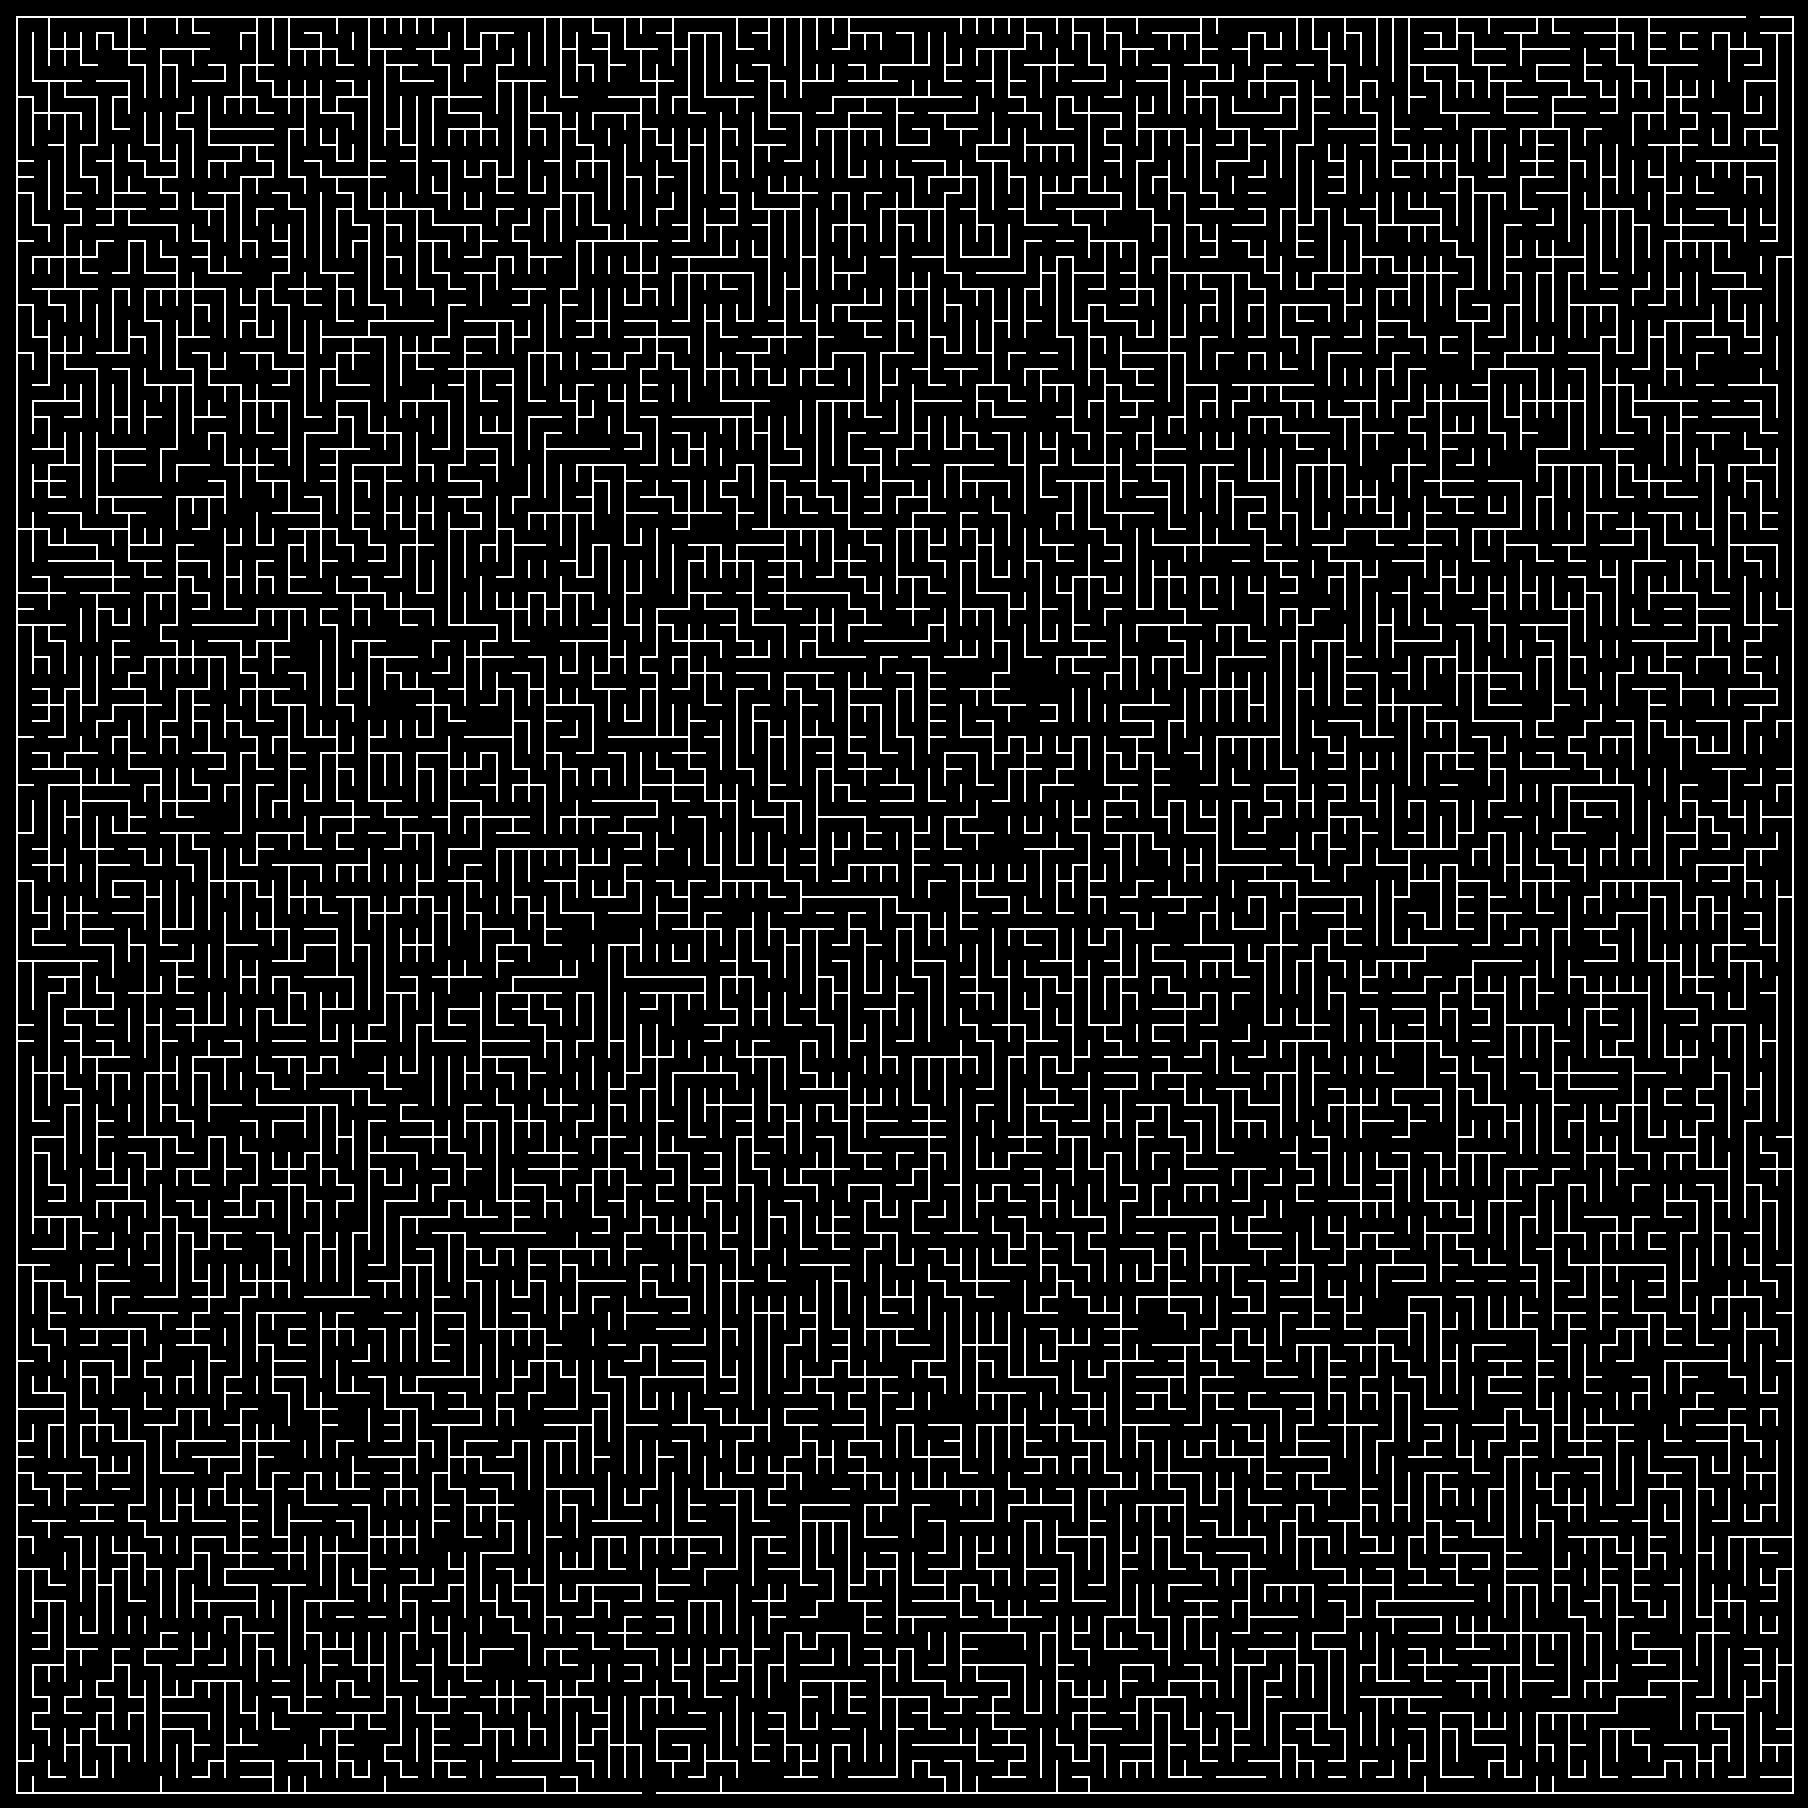
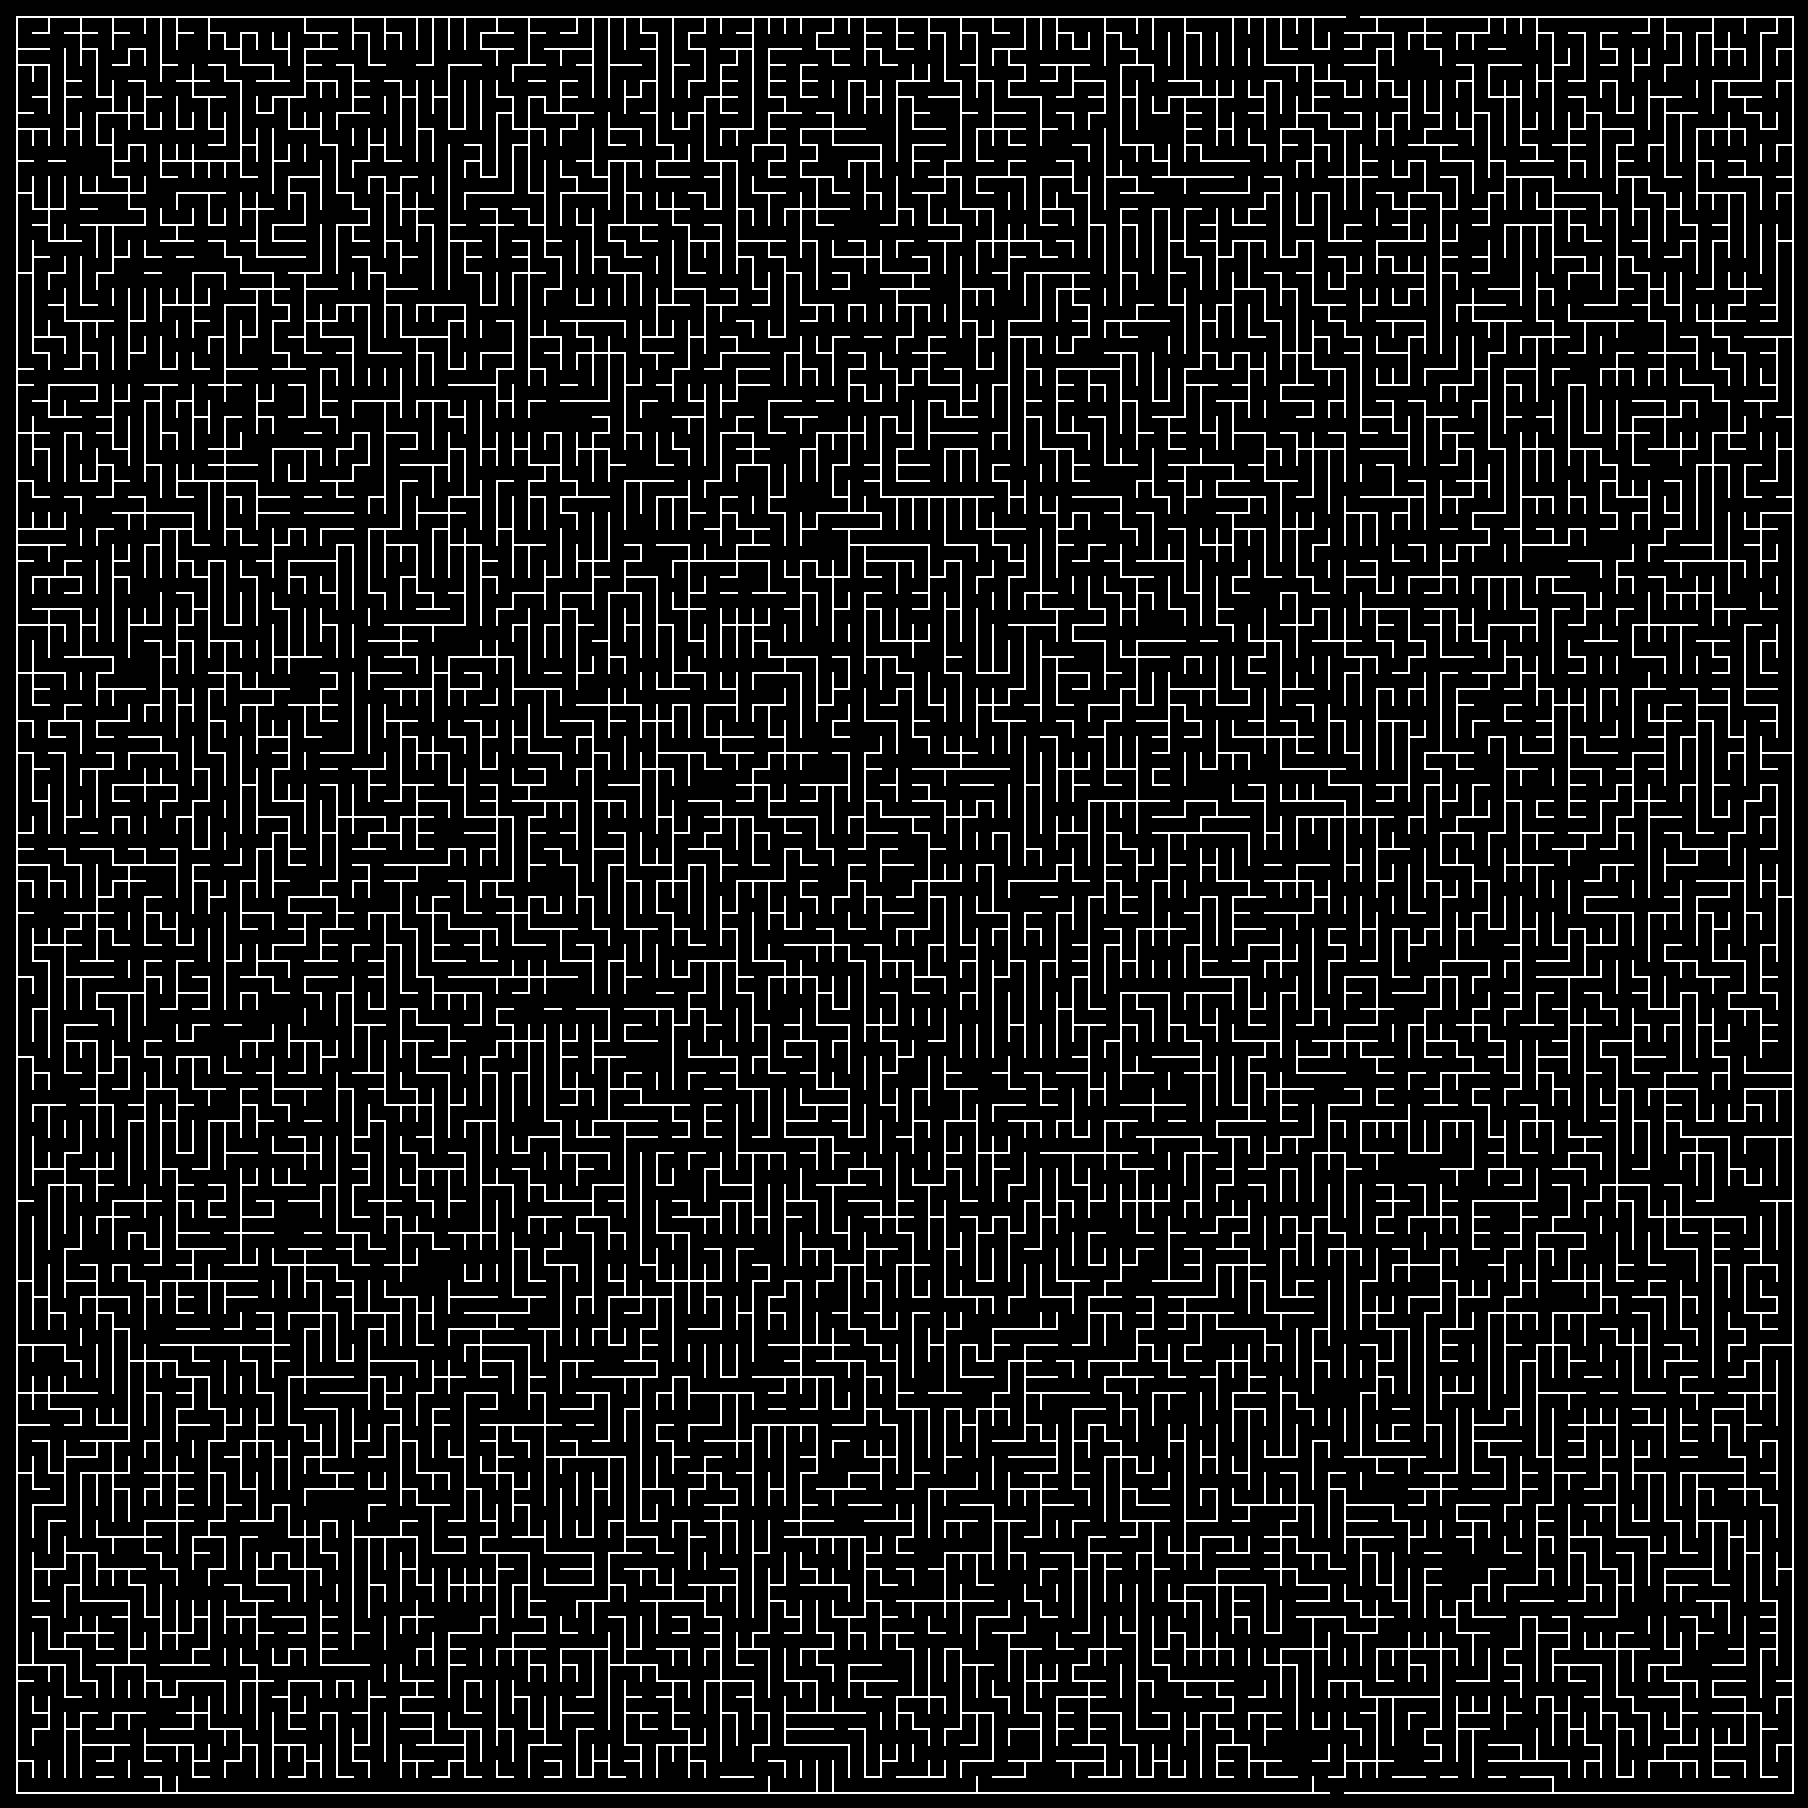
Resolver works fully from console

diff --git a/src/main/java/com/javamaze/maze/MazeSolver.java b/src/main/java/com/javamaze/maze/MazeSolver.java
@@ -4,45 +4,43 @@ import java.util.ArrayDeque;
 import java.util.ArrayList;
 import java.util.Collections;
 import java.util.Queue;
-import java.util.Random;
 
 public class MazeSolver {
 
     private final ArrayList<Cell> Path = new ArrayList<>();
-    
-    public ArrayList<Cell> GetPath()
-    {
+
+    public ArrayList<Cell> GetPath() {
         return Path;
     }
-    
+
     private boolean FindPath(int distance[][], int col, int row, int where, int[][] maze) {
         int xmax = distance.length - 1;
         int ymax = distance[0].length - 1;
         switch (where) {
             case 0://move down
                 if (row < ymax) {
-                    if ((distance[col][row]==(distance[col][row+1]+1)) && (maze[col][row])<2) {
+                    if ((distance[col][row] == (distance[col][row + 1] + 1)) && (maze[col][row]) < 2) {
                         return true;
                     }
                 }
                 break;
             case 1://move left
                 if (col > 1) {
-                    if ((distance[col][row]==(distance[col-1][row]+1)) && (maze[col-1][row]!=1) && (maze[col-1][row]!=3)) {
+                    if ((distance[col][row] == (distance[col - 1][row] + 1)) && (maze[col - 1][row] != 1) && (maze[col - 1][row] != 3)) {
                         return true;
                     }
                 }
                 break;
             case 2://move right
                 if (col < xmax) {
-                    if ((distance[col][row]==(distance[col+1][row]+1)) && (maze[col][row]!=1) && (maze[col][row]!=3)) {
+                    if ((distance[col][row] == (distance[col + 1][row] + 1)) && (maze[col][row] != 1) && (maze[col][row] != 3)) {
                         return true;
                     }
                 }
                 break;
             case 3://move up
                 if (row > 1) {
-                    if ((distance[col][row]==(distance[col][row-1]+1)) && (maze[col][row-1]<2)) {
+                    if ((distance[col][row] == (distance[col][row - 1] + 1)) && (maze[col][row - 1] < 2)) {
                         return true;
                     }
                 }
@@ -52,21 +50,13 @@ public class MazeSolver {
         }
         return false;
     }
-    
-    private int RandomDirection() {
-        Random rand = new Random();
-        
-        return rand.nextInt(4);
-    }
-    
-    private void FindWay(ArrayList<Cell> ways, int cols, int rows, int[][] maze)
-    {
+
+    private void FindWay(ArrayList<Cell> ways, int cols, int rows, int[][] maze) {
         int[][] distance = new int[cols][rows];
-        int len=ways.size();//length of arraylist
-        
-        for(int a=len-1; a>=0; a--)
-        {
-            distance[ways.get(a).x][ways.get(a).y]=ways.get(a).d;
+        int len = ways.size();//length of arraylist
+
+        for (int a = len - 1; a >= 0; a--) {
+            distance[ways.get(a).x][ways.get(a).y] = ways.get(a).d;
         }
         /*
         for(int c=0;c<rows;c++)//print how program works
@@ -79,58 +69,55 @@ public class MazeSolver {
             System.out.print("\n");
         }*/
         System.out.print("\n");
-        
-        int tx=ways.get(len-1).x;//x of target 
-        int ty=ways.get(len-1).y;//y of target 
-        int td=ways.get(len-1).d;//distance of target 
-        Path.add(new Cell(tx,ty,td));//add final point to path
-        
+
+        int tx = ways.get(len - 1).x;//x of target 
+        int ty = ways.get(len - 1).y;//y of target 
+        int td = ways.get(len - 1).d;//distance of target 
+        Path.add(new Cell(tx, ty, td));//add final point to path
+
         //list with directions to make them randomly chosen
         ArrayList<Integer> direction = new ArrayList<>();
-        for (int i=0; i<4; i++) {
+        for (int i = 0; i < 4; i++) {
             direction.add(i);
         }
-        boolean found=false;
-        
-        int cx=tx;//current x
-        int cy=ty;//current y
-        for (int cd=td-1; cd>0; cd--)//cd - current distance
+        boolean found = false;
+
+        int cx = tx;//current x
+        int cy = ty;//current y
+        for (int cd = td - 1; cd > 0; cd--)//cd - current distance
         {
-            found=false;
+            found = false;
             Collections.shuffle(direction);//random direction
-            for (int dir : direction)
-            {
+            for (int dir : direction) {
                 //find neighbour element with distance smaller by 1
-                if(FindPath(distance,cx,cy,dir,maze)==true)
-                {
-                    switch(dir) {
+                if (FindPath(distance, cx, cy, dir, maze) == true) {
+                    switch (dir) {
                         case 0://move down
-                            cy+=1;
+                            cy += 1;
                             break;
                         case 1://move left
-                            cx-=1;
+                            cx -= 1;
                             break;
                         case 2://move right
-                            cx+=1;
+                            cx += 1;
                             break;
                         case 3://move up
-                            cy-=1;
+                            cy -= 1;
                             break;
                     }
-                    Path.add(new Cell(cx,cy,cd));//add to path
-                    found=true;
+                    Path.add(new Cell(cx, cy, cd));//add to path
+                    found = true;
                     break;
                 }
             }
-            if(found==false)
-            {
+            if (found == false) {
                 Path.clear();
                 FindWay(ways, cols, rows, maze);
                 return;
             }
-        }   
+        }
     }
-    
+
     private boolean isMovePossible(int maze[][], boolean visited[][], int col, int row, int where) {
         int xmax = maze.length - 1;
         int ymax = maze[0].length - 1;
@@ -237,7 +224,7 @@ public class MazeSolver {
         } else {
             System.out.print("Nie znaleziono sciezki!");
         }
-        
-        FindWay(ways,cols,rows,maze);//reconstruct shortest way
+
+        FindWay(ways, cols, rows, maze);//reconstruct shortest way
     }
 }

diff --git a/src/main/java/com/javamaze/maze/PrintMaze.java b/src/main/java/com/javamaze/maze/PrintMaze.java
@@ -103,16 +103,57 @@ public class PrintMaze {
             System.out.print("Error!");
         }
     }
-    
-    //print path in console
-    public void PrintSolutionInConsole(ArrayList<Cell> path, int cols, int rows)
-    {
-        int[][] sol = new int[cols][rows];
-        for (Cell cc : path)
+
+    private Graphics2D PathBlock(Graphics2D g, int x, int y, boolean vert) {
+        g.setColor(Color.blue);
+        if (vert)//add vertical block
         {
-            sol[cc.x][cc.y]=cc.d;
+            g.fillRect(16 * x + 2, 16 * y + 2, 14, 30);
+        } else {
+            g.fillRect(16 * x + 2, 16 * y + 2, 30, 14);//add horizontal block
         }
-        
+        return g;
+    }
+    
+    public void SaveAsImageResolved(ArrayList<Cell> Path, int cols, int rows) {
+        BufferedImage img = null;
+        try {
+            img = ImageIO.read(new File("MazeUnresolved.png"));
+        } catch (IOException e) {
+            System.out.print("Can't open specified file!");
+        }
+        Graphics2D graph = img.createGraphics();//graphics to draw in buffered image
+
+        Cell cc=Path.get(0);//current cell
+        for (int a=1; a<Path.size(); a++)
+        {
+            Cell nc=Path.get(a);//next cell
+            if (cc.x==nc.x-1)//left
+                PathBlock(graph, cc.x, cc.y, false);
+            else if (cc.x==nc.x+1)//right
+                PathBlock(graph, nc.x, nc.y, false);
+            else if (cc.y==nc.y+1)//up
+                PathBlock(graph, nc.x, nc.y, true);
+            else if (cc.y==nc.y-1)//down
+                PathBlock(graph, cc.x, cc.y, true);
+            cc=nc;
+        }
+        graph.dispose();//release resources
+        File file = new File("MazeResolved.png");//make file
+        try {
+            ImageIO.write(img, "png", file);
+        } catch (IOException ex) {
+            System.out.print("Error!");
+        }
+    }
+
+    //print path in console
+    public void PrintSolutionInConsole(ArrayList<Cell> path, int cols, int rows) {
+        int[][] sol = new int[cols][rows];
+        for (Cell cc : path) {
+            sol[cc.x][cc.y] = cc.d;
+        }
+
         System.out.print("\n\n");
         for (int y = 0; y < rows; ++y) {
             for (int x = 0; x < cols; ++x) {

diff --git a/src/main/java/com/javamaze/maze/Main.java b/src/main/java/com/javamaze/maze/Main.java
@@ -10,8 +10,8 @@ public class Main {
         MakeMaze myMaze = new MakeMaze(cols, rows);
         PrintMaze print = new PrintMaze();
         int maze[][]=myMaze.getMaze();
-        print.PrintJustNumbers(maze);
-        print.PrintInConsole(maze);
+        //print.PrintJustNumbers(maze);
+        //print.PrintInConsole(maze);
         
         print.SaveAsImage(maze);
         
@@ -27,8 +27,8 @@ public class Main {
         MazeSolver solve = new MazeSolver();
         solve.SolveMaze(maze,sx,1,tx,rows);
         ArrayList<Cell> path = solve.GetPath();
-        print.PrintSolutionInConsole(path,cols+1,rows+1);
-        
+        //print.PrintSolutionInConsole(path,cols+1,rows+1);
+        print.SaveAsImageResolved(path,cols,rows);
     }
 }
 
